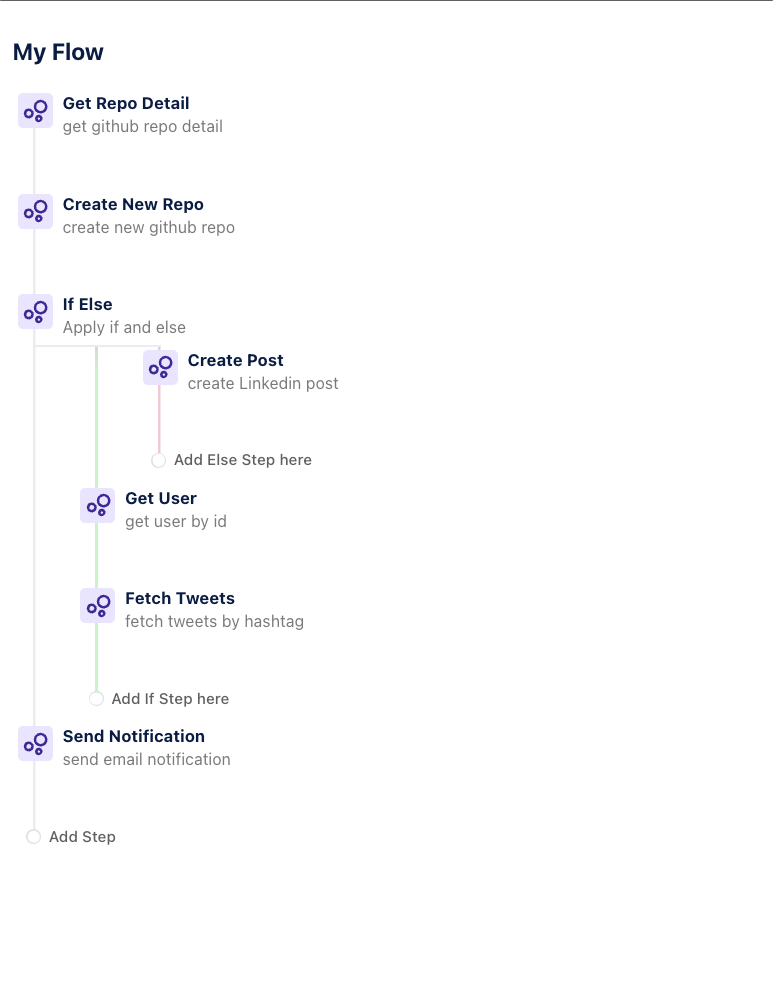
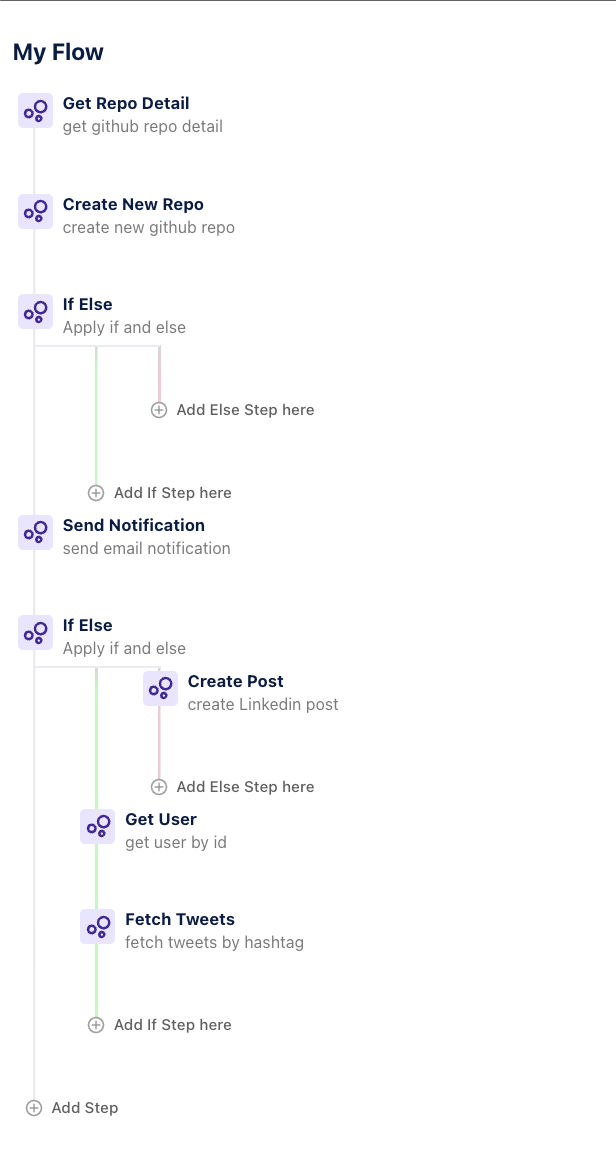
add step button style changed

Changed region(s): [[0.0, 0.0304, 0.5552, 0.8824], [0.401, 0.6694, 0.4318, 0.6998], [0.3393, 0.1826, 0.3701, 0.213]]

diff --git a/src/Components.css b/src/Components.css
@@ -81,10 +81,11 @@
   cursor: pointer;
 }
 .add-step-btn {
-  border-radius: 3px;
-  width: 12px;
-  height: 12px;
-  margin-left: 7px;
+  width: 16px;
+  height: 16px;
+  margin-left: 5px;
+  margin-top: 9px;
+  color: #9f9f9f;
 }
 
 .add-step-btn-ctn {
@@ -96,18 +97,6 @@
   z-index: 3;
 }
 
-.add-step-btn-ctn::before {
-  border-radius: 50%;
-  background-color: rgb(255, 255, 255);
-  width: 10px;
-  height: 10px;
-  left: 50%;
-  top: 50%;
-  z-index: 3;
-  transform: translate(-50%, -50%);
-  content: '';
-  position: absolute;
-}
 .add-step-wrapper {
   color: rgb(96, 96, 96);
   background: transparent none repeat scroll 0% 0%;
@@ -115,7 +104,7 @@
   position: relative;
 }
 .add-step-btn-text {
-  margin-top: -2px;
+  margin-top: 9px;
   margin-left: 6px;
   font-size: 0.76em;
   font-weight: 500;

diff --git a/src/components/AddStepButton.jsx b/src/components/AddStepButton.jsx
@@ -1,4 +1,5 @@
 import React from 'react';
+import { MdAddCircleOutline } from 'react-icons/md';
 
 const AddStepButton = ({ hideByDefault, position, setSteps, title }) => {
   const addNewStep = () => {
@@ -11,7 +12,7 @@ const AddStepButton = ({ hideByDefault, position, setSteps, title }) => {
       <div className='add-step-wrapper'>
         <div>
           <div className='add-step-btn'>
-            <div className='add-step-btn-ctn'></div>
+            <MdAddCircleOutline />
           </div>
         </div>
         <div className='add-step-btn-text'>{title ?? 'Add Step'}</div>
